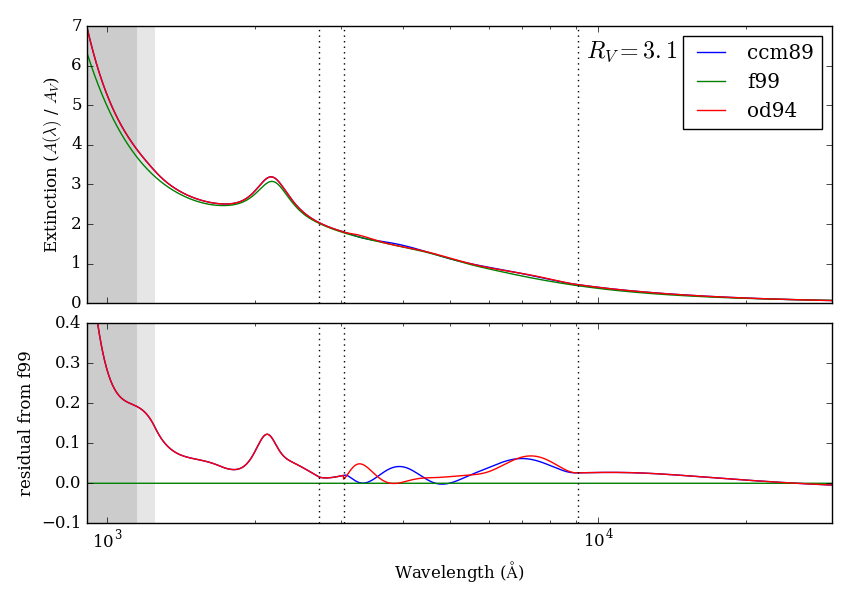
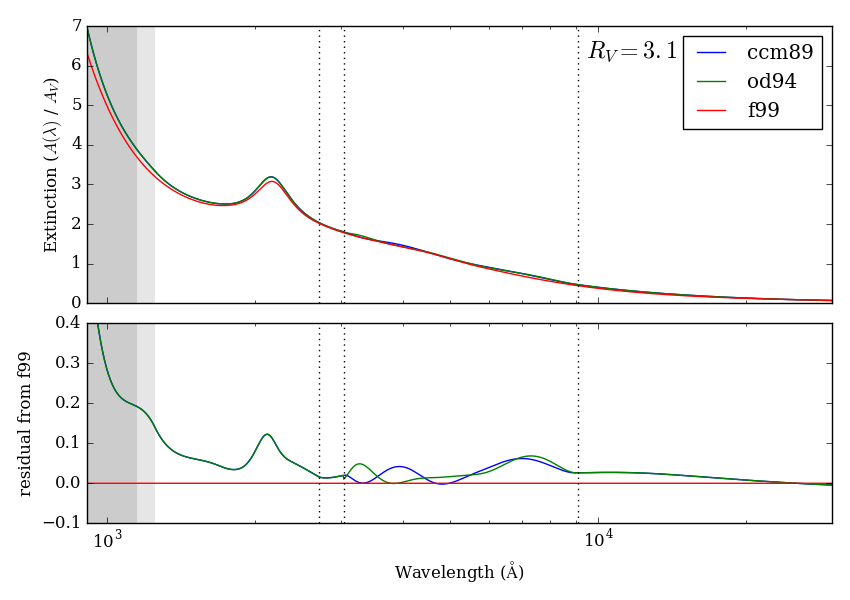
ready for v0.1 release

diff --git a/setup.py b/setup.py
@@ -4,6 +4,8 @@ from distutils.core import setup
 from distutils.extension import Extension
 import re
 
+import numpy
+
 if os.path.exists("extinction.pyx"):
     USE_CYTHON = True
     fname = "extinction.pyx"
@@ -11,7 +13,8 @@ else:
     USE_CYTHON = False
     fname = "extinction.c"
 
-extensions = [Extension("extinction", [fname])]
+include_dirs = [numpy.get_include()]
+extensions = [Extension("extinction", [fname], include_dirs=include_dirs)]
 
 if USE_CYTHON:
     from Cython.Build import cythonize
@@ -20,15 +23,21 @@ if USE_CYTHON:
 # Synchronize version from code.
 version = re.findall(r"__version__ = \"(.*?)\"", open(fname).read())[0]
 
-classifiers = []
+classifiers = [
+    "Development Status :: 3 - Alpha",
+    "Programming Language :: Python :: 2",
+    "Programming Language :: Python :: 3",
+    "License :: OSI Approved :: MIT License",
+    "Topic :: Scientific/Engineering :: Astronomy",
+    "Intended Audience :: Science/Research"]
 
 setup(name="extinction", 
       version=version,
-      description="",
+      description="Fast interstellar dust extinction laws",
       long_description="",
       license="MIT",
       classifiers=classifiers,
-      url="",
+      url="http://github.com/kbarbary/extinction",
       author="Kyle Barbary",
       author_email="kylebarbary@gmail.com",
       ext_modules=extensions,

diff --git a/test.py b/test.py
@@ -78,9 +78,23 @@ def test_od94():
                     rtol=0.0051, atol=0.)
 
 
-def test_f99():
-    # TODO: find reference values for Fitzpatrick (1999)
-    wave = np.linspace(1000.0, 60000.0, 100)
-    extinction.f99(wave, 1.0)
+def test_f99_knots():
+    """Test that knots match values in Fitzpatrick (1999) Table 3 for
+    f99 function (with R_V = 3.1)"""
 
+    wave = np.array([np.inf, 26500., 12200., 6000., 5470., 4670., 4110.,
+                     2700., 2600.])
+    x = np.array([0.0, 0.377, 0.820, 1.667, 1.828, 2.141, 2.433, 3.704,
+                  3.846])
+    
+    # A(lambda) values for E(B-V) = 1 or A_V = 3.1
+    ref_values = np.array([0.0, 0.265, 0.829, 2.688, 3.055, 3.806, 4.315, 6.265,
+                           6.591])
 
+    assert_allclose(extinction.f99(wave, 3.1, unit='aa'), ref_values,
+                    rtol=0., atol=0.001)
+
+    # atol = 0.002 because the input values are less precise (e.g., 0.377
+    # rather than 1.e4 / 26500.)
+    assert_allclose(extinction.f99(x, 3.1, unit='invum'), ref_values,
+                    rtol=0., atol=0.002)

diff --git a/plot.py b/plot.py
@@ -10,12 +10,12 @@ import extinction
 
 rcParams['font.family'] = 'serif'
 
-functions = {'ccm89': extinction.ccm89,
-             'od94': extinction.od94,
-             'f99': extinction.f99}
+functions = ['ccm89', 'od94', 'f99']
 
 wave = np.logspace(np.log10(910.), np.log10(30000.), 2000)
-a_lambda = {key: functions[key](wave, 1.0, 3.1) for key in functions}
+a_lambda = {'ccm89': extinction.ccm89(wave, 1.0, 3.1),
+            'od94': extinction.od94(wave, 1.0, 3.1),
+            'f99': extinction.f99(wave, 1.0)}
 
 fig = plt.figure(figsize=(8.5, 6.))
 

diff --git a/README.md b/README.md
@@ -33,7 +33,7 @@ affects its amplitude.
 import numpy as np
 import extinction
 
-wave = np.array([2000., 3000., 4000.])
+wave = np.array([2000., 3000., 4000.])  # wavelength in Angstroms
 a_v = 1.0
 r_v = 3.1
 
@@ -53,6 +53,19 @@ extinction.f99(wave, a_v)
 f = extinction.F99Extinction(r_v)  # construct once
 f(wave, a_v)  # call multiple times
 
+```
+
+The above functions accept wavelength in Angstroms. There are also corresponding functions
+that accept wavenumber in inverse microns:
+
+```python
+x = 1e4 / np.array([2000., 3000., 4000.])  # wavenumber in inverse microns
+
+extinction.ccm89_invum(x, a_v, r_v)
+extinction.od94_invum(x, a_v, r_v)
+
+f = extinction.F99Extinction(r_v)
+f(x, a_v, unit='invum')
 ```
 
 ## Comparison of functions
